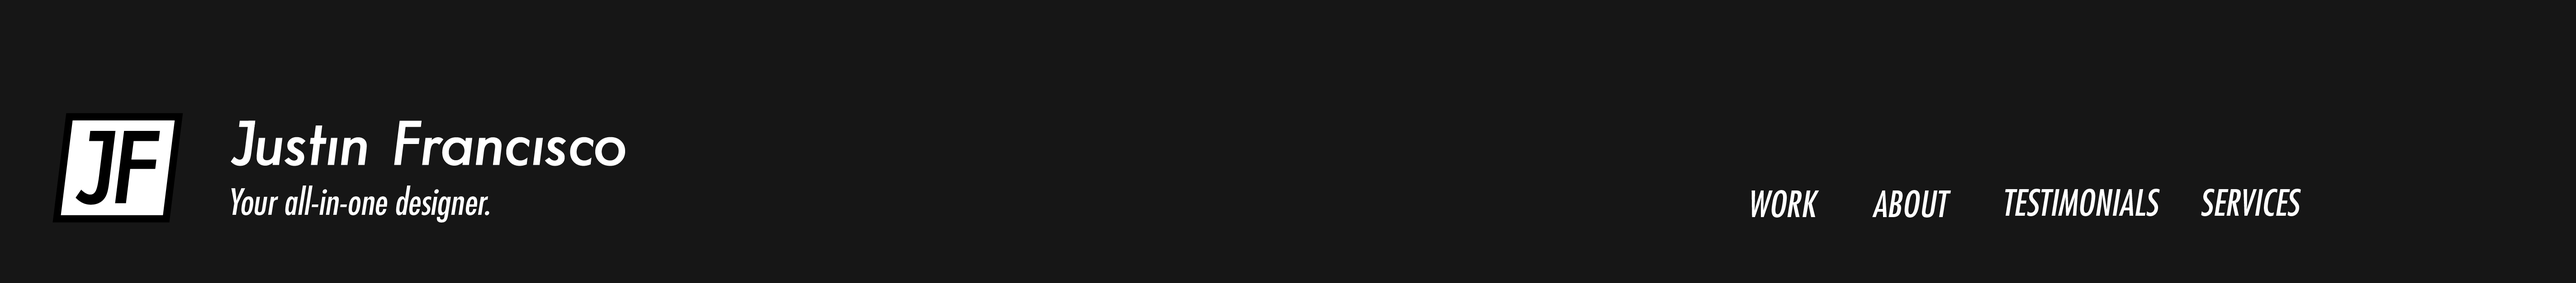
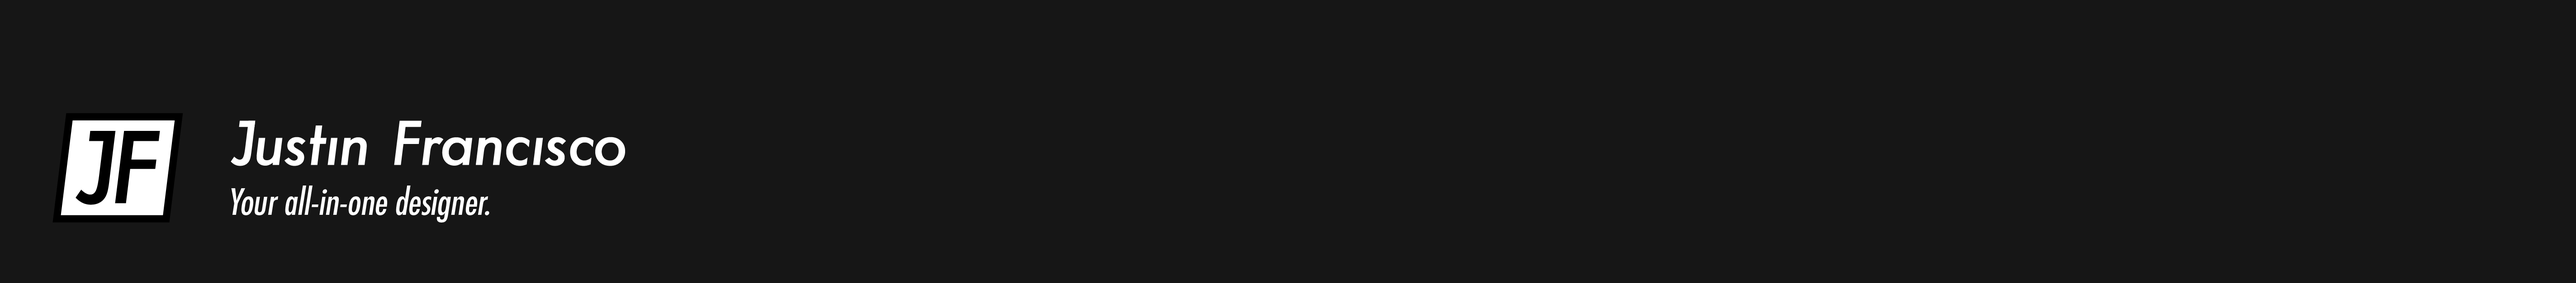
VERSION 3

Changed region(s): [[0.6838, 0.6667, 0.9013, 0.7879]]

diff --git a/script.js b/script.js
@@ -1,36 +1,36 @@
 //-------------------------------------------MAIN NAV----------------------------------------
-$(".clickBox-home").on('click', function(){
-	window.location.href = "index.html";
-})
+// $(".clickBox-home").on('click', function(){
+// 	window.location.href = "index.html";
+// })
 
-$(".clickBox-work").on('click', function(){
-	window.location.href = "work.html";
-})
+// $(".clickBox-work").on('click', function(){
+// 	window.location.href = "work.html";
+// })
 
-$(".clickBox-about").on('click', function(){
-	window.location.href = "about.html";
-})
+// $(".clickBox-about").on('click', function(){
+// 	window.location.href = "about.html";
+// })
 
-$(".clickBox-testimonials").on('click', function(){
-	window.location.href = "testimonials.html";
-})
+// $(".clickBox-testimonials").on('click', function(){
+// 	window.location.href = "testimonials.html";
+// })
 
-$(".clickBox-services").on('click', function(){
-	window.location.href = "services.html";
-})
+// $(".clickBox-services").on('click', function(){
+// 	window.location.href = "services.html";
+// })
 
 //-------------------------------------------3 BOXES----------------------------------------
-$(".clickBox-logo").on('click', function(){
-	window.location.href = "logos.html";
-})
+// $(".clickBox-logo").on('click', function(){
+// 	window.location.href = "logos.html";
+// })
 
-$(".clickBox-poster").on('click', function(){
-	window.location.href = "posters.html";
-})
+// $(".clickBox-poster").on('click', function(){
+// 	window.location.href = "posters.html";
+// })
 
-$(".clickBox-video").on('click', function(){
-	window.location.href = "videos.html";
-})
+// $(".clickBox-video").on('click', function(){
+// 	window.location.href = "videos.html";
+// })
 
 //-------------------------------------------FEATURES----------------------------------------
 // $(".clickBox-feature01").on('click', function(){

diff --git a/index.html b/index.html
@@ -28,42 +28,22 @@
 			<div class="clickBox-video"></div>
 			<img class="Background_img" src="page_Menu-Categories.png">
 		</div>
-
+		<div class="spacer" id="About"></div>
 
 		<!-- About Me  -->
-		<div class="spacer" id="About"></div>
 		<div class=clickContainer>
 			<!-- <div class="textBox-email">JTKfrancisco@gmail.com</div> -->
 			<img class="Background_img" src="page_About-04.png">
 		</div>
-
 		<div class="spacer"></div>
 
-		<!-- Featured work  -->
-		<div class=clickContainer>
-			<div class="clickBox-feature01">
-				<div class="feature01-text">Autism Care Centre Branding</div>
-				<div class="feature01-color"></div>
-			</div>
-			<div class="clickBox-feature02">
-				<div class="feature02-text">Music Poster for 'The Killers'</div>
-				<div class="feature02-color"></div>
-			</div>
-			<div class="clickBox-feature03">
-				<div class="feature03-text">'The Tortured Artist Podcast' Branding</div>
-				<div class="feature03-color"></div>
-			</div>
-			<div class="clickBox-feature04">
-				<div class="feature04-text">Bachelor's Degree Final Thesis at OCAD U</div>
-				<div class="feature04-color"></div>
-			</div>
-			<div class="clickBox-feature05">
-				<div class="feature05-text">Logo Design</div>
-				<div class="feature05-color"></div>
-			</div>
+		<!-- Featured clients  -->
 			<img class="Background_img" src="page_Features.png">
 		</div>
+		<div class="spacer"></div>
 
+		<!-- Featured Work  -->
+		<img class="Background_img" src="page_Featured Work.png">
 		<div class="spacer"></div>
 
 		<!-- Testimonials -->

diff --git a/style.css b/style.css
@@ -30,7 +30,7 @@ html{
 }
 
 /*------------------------------MAIN NAV------------------------------*/
-.clickBox-home{
+/*.clickBox-home{
 	position: absolute;
     width: 22.6%;
     height: 36.6%;
@@ -83,7 +83,7 @@ div.clickBox-testimonials:hover{
 }
 div.clickBox-services:hover{
 	border-bottom: 2px solid white;
-}
+}*/
 
 /*------------------------------PROMO------------------------------*/
 .spacer-promo{
